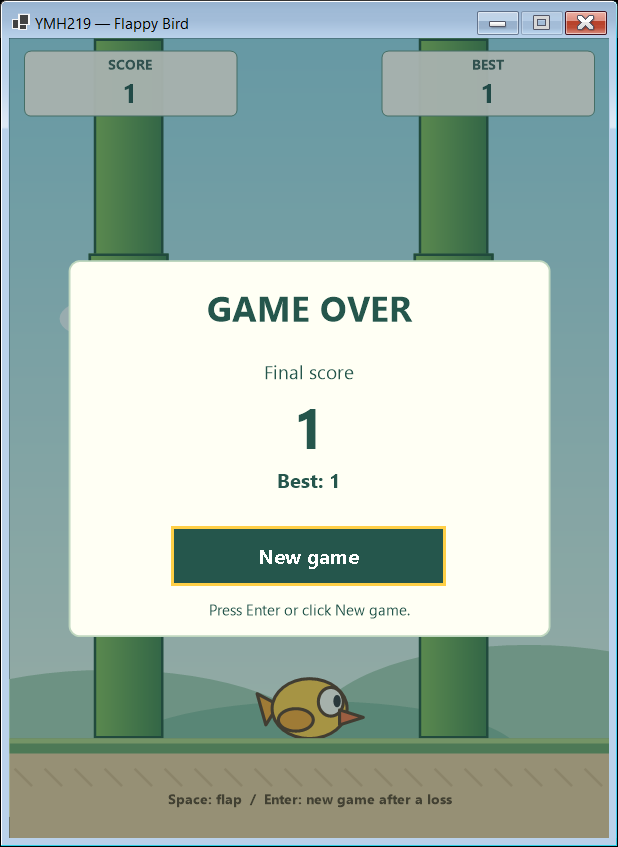
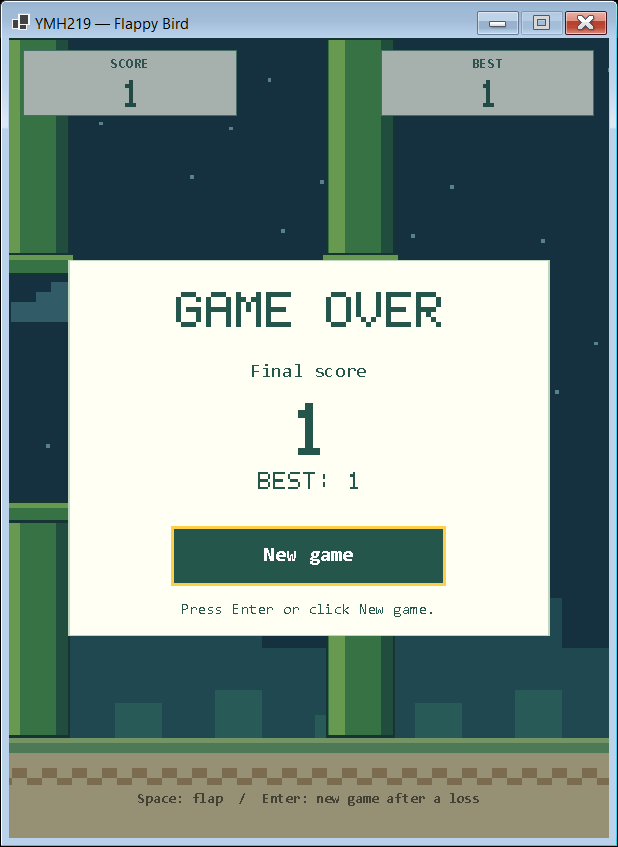
docs: document retro presentation and refresh actual game captures

diff --git a/README.md b/README.md
@@ -2,7 +2,7 @@
 
 A C# Windows Forms desktop game project for **Nesne Tabanlı Programlama (YMH219)**. The project demonstrates object-oriented design, event-driven programming, testing, and a reviewed Git workflow.
 
-**Gameplay implementation is complete. Final submission review is in progress.** Fly through moving pipes, earn points, lose on pipe/ground contact, and start a new run with Enter or the New game button. Separate Score/Best displays, focus pause, and saved best scores are included. PRs #1–#8 are merged. Automated checks, clean-checkout verification, and application screenshots are complete; the owner's full name and manual sign-off remain outstanding in the [submission checklist](docs/SUBMISSION.md).
+**Gameplay implementation is complete. Final submission review is in progress.** Fly through moving pipes with an animated pixel-art bird, earn points, lose on contact, and start again with Enter or New game. The retro night scene includes wing flaps, gentle visual tilt, scrolling terrain, Score/Best displays, focus pause and saved best scores. PRs #1–#8 are merged; owner-requested flight tuning and retro visuals remain review follow-ups. The owner's full name and manual sign-off remain outstanding in the [submission checklist](docs/SUBMISSION.md).
 
 ## Quick start
 
@@ -24,7 +24,7 @@ Open the root folder in VS Code, install the recommended extensions, and use **C
 
 ```text
 src/
-  FlappyBird.App/           Window, rendering, input/timing, high-score services
+  FlappyBird.App/           Window, pixel rendering/animation, input/timing, score storage
   FlappyBird.Core/          Models, swept collision, GameEngine/PipeSystem, gap generation
 tests/
   FlappyBird.Core.Tests/    xUnit behavior tests
@@ -58,6 +58,7 @@ Every stage uses a separate branch and pull request. Review the diff, test resul
 - [Completion plan](docs/PLAN.md): stage-by-stage tasks, acceptance criteria, target dates, and review gates for finishing Flappy Bird.
 - [Setup and troubleshooting](docs/SETUP.md): tools, environment, VS Code, common failures.
 - [Architecture](docs/ARCHITECTURE.md): current responsibilities and intended game design.
+- [Retro artwork and animation](docs/ANIMATION.md): original pixel assets, timing, pause/reset behavior and verification.
 - [Decisions](docs/DECISIONS.md): choices, rationale, and tradeoffs.
 - [Development workflow and log](docs/DEVELOPMENT.md): stages, branching, review, actual changes.
 - [Testing](docs/TESTING.md): commands, assertions, UI checks, and evidence.
@@ -71,7 +72,7 @@ Every stage uses a separate branch and pull request. Review the diff, test resul
 
 Use `./scripts/dev.ps1 check` to restore, build Release, run tests, and verify formatting. The Windows GitHub Actions workflow runs the same command on pull requests and pushes to `main`, then uploads TRX results. Workflow configuration does not imply that a hosted CI run has passed; execution evidence is recorded in [TESTING.md](docs/TESTING.md).
 
-Mandatory gameplay and optional high-score persistence are implemented and regression-tested: **162 tests (97 Core, 65 App)**. A fresh GitHub clone restored, built, passed the full check, and launched/closed normally on the development computer. After the owner reported fast falling and oversized Space hops, flight now uses a smaller hop, lighter gravity and capped descent. Acceptance of the revised feel, other physical display/input checks, and another-computer sign-off remain pending. Audio, progressive speed, and selectable difficulties are deferred. Scripted checks do not establish human difficulty or fairness. The bird uses a conservative rectangular hitbox rather than pixel-perfect artwork collision. No distribution package or third-party assets are included. A license has not yet been selected.
+Mandatory gameplay, persistence and retro presentation are regression-tested: **180 tests (97 Core, 83 App)**. A fresh GitHub clone previously restored, built, checked and launched/closed normally on the development computer; current execution evidence is in TESTING. After the owner reported fast falling and oversized Space hops, flight uses a smaller hop, lighter gravity and capped descent. Animation advances separately and preserves those physics. Acceptance of the revised feel/art, physical display/input checks and another-computer sign-off remain pending. Audio, progressive speed and selectable difficulties are deferred. Scripted checks do not establish human difficulty or fairness. The nominal rectangular hitbox remains conservative. No distribution package or third-party visual assets are included. A license has not yet been selected.
 
 ## Technologies and NuGet packages
 
@@ -120,11 +121,11 @@ Settings are finite/positive and validated against Playfield. Engine updates acc
 
 The renderer uses the 480 × 640 logical playfield with ground beginning at Y=560. Shapes, strokes, and pixel-unit fonts scale together to the actual client area. Uniform scaling and centered borders preserve proportions when the client aspect ratio differs. WinForms DPI autoscaling uses a 96-DPI baseline; the window remains fixed-size with maximize disabled.
 
-The renderer reads Bird, state, current/best scores, pause/status presentation, and pipe geometry. It paints pipes before the bird, separate corner score cards while Running, an inactive pause card, and a dimmed final-score card on Game Over. Instructions sit in the ground region. A shared SceneViewport mapping keeps the native restart button and its pixel-unit font aligned with painted content at different client sizes. Painting never changes domain state, randomness, or storage. Accessible descriptions cover Ready, Running, paused, Game Over, best, restart, and storage warnings.
+The renderer reads Bird, state, scores, pipe geometry and an immutable animation snapshot. Original block shapes and five-by-seven heading glyphs create an 8-bit arcade look. Ready has gentle bob/wing motion; Running adds velocity-based visual tilt and layered world scrolling. Fresh Space pulses the wing pose. Focus loss freezes presentation, Game Over holds its last frame, and restart resets it. Painting never advances animation, domain state, randomness or storage. Small instructions and the native restart button retain readable monospace text. SceneViewport keeps native controls aligned with the same scaled scene; accessible descriptions retain controls, state, best and storage warnings. See [animation details](docs/ANIMATION.md).
 
 ## Screenshots and student details
 
-Actual application-window captures taken on November 17, 2026 at 125% desktop scaling. An isolated scripted run uses controlled gaps and normal scoring/contact logic. These images are not evidence of human playtesting; [capture details](docs/screenshots/README.md) record their source and limitations.
+Actual application-window captures refreshed on November 18, 2026 at 125% desktop scaling. An isolated scripted run uses controlled gaps and normal scoring/contact logic. These images are not evidence of human playtesting; [capture details](docs/screenshots/README.md) record their source and limitations. A [Ready-screen capture](docs/screenshots/ready.png) also shows the new pixel theme.
 
 ![Running game with a completed pipe pass, score 1, and a visible next gap](docs/screenshots/gameplay.png)
 
@@ -132,7 +133,7 @@ Actual application-window captures taken on November 17, 2026 at 125% desktop sc
 
 ![Game Over with final score 1, saved best 1, and the focused New game button](docs/screenshots/game-over.png)
 
-*Game Over after ground contact: final score 1, saved best 1, and keyboard-accessible restart.*
+*Game Over after collision: final score 1, saved best 1, and keyboard-accessible restart.*
 
 | Student detail | Status |
 | --- | --- |

diff --git a/docs/ARCHITECTURE.md b/docs/ARCHITECTURE.md
@@ -6,12 +6,12 @@ The solution contains four projects:
 
 | Project | Target | Responsibility | Dependencies |
 | --- | --- | --- | --- |
-| `FlappyBird.App` | `net10.0-windows` | Window, input/focus adapter, timing, rendering, high-score storage | Core, Windows Forms |
+| `FlappyBird.App` | `net10.0-windows` | Window, input/focus adapter, timing, pixel rendering/animation, score storage | Core, Windows Forms |
 | `FlappyBird.Core` | `net10.0` | Geometry, motion, gaps, swept contact, scoring, three-state game/reset | .NET base libraries |
 | `FlappyBird.Core.Tests` | `net10.0` | Core behavior tests | Core, xUnit, test SDK, coverage collector |
 | `FlappyBird.App.Tests` | `net10.0-windows` | Rendering, input/timing, native restart, and isolated storage tests | App, xUnit, test SDK, Windows drawing APIs |
 
-Program initializes WinForms on an STA thread. GameForm owns window/input/focus, FixedStepLoop, Stopwatch, one timer and one restart Button. GameEngine owns Bird, PipeSystem, Score, and Ready/Running/GameOver. Renderer receives read-only presentation inputs; it owns no game rules. The existing fixed-window/DPI/double-buffering behavior remains.
+Program initializes WinForms on an STA thread. GameForm owns window/input/focus, FixedStepLoop, Stopwatch, SceneAnimation, one timer and one restart Button. GameEngine owns Bird, PipeSystem, Score, and Ready/Running/GameOver. Renderer receives read-only model inputs and an immutable animation snapshot; it owns no game rules or animation clock. The existing fixed-window/DPI/double-buffering behavior remains.
 
 Playfield remains 480 × 640 with an 80-unit ground region. GroundTop=560 is shared by geometry, collision, and rendering. Mandatory contact, score, loss, and restart behavior and optional best-score persistence are implemented. Audio, progressive speed, and selectable difficulty are deferred.
 
@@ -67,17 +67,19 @@ Deactivation stops the timer and clears timing/input accumulation. Activation sa
 
 ## Renderer and coordinate mapping
 
-Coordinates use top-left origin, X rightward, Y downward. Ground is anchored at `GroundTop` (560). Artwork is centered in the model's bird rectangle and scaled from nominal 86 × 48 bounds. The shadow is decorative. Birds below the viewport are culled before converting coordinates to floats.
+Coordinates use top-left origin, X rightward, Y downward. Ground is anchored at `GroundTop` (560). Original block artwork is centered/inset in the nominal 86 × 48 bird rectangle. Wing pose and small tilt are visual only; Ready bob does not move Core's bird. Birds below the viewport are culled before converting coordinates to floats.
 
-Renderer receives current Score, cached BestScore, paused flag, and a cached storage-status string. SceneViewport computes `scale = min(clientWidth/logicalWidth, clientHeight/logicalHeight)` and centered offsets for both graphics and native button bounds. It maps the logical restart rectangle (centered, Y=390, 220 × 48) inside the Game Over panel. GameForm updates the mapping on layout and after client-size changes, since a fixed Form can finalize its client size after layout. Graphics transforms/clipping remain unchanged; empty clients are ignored.
+Renderer receives current Score, cached BestScore, paused flag, cached storage status and SceneAnimationFrame. Omitting the frame supplies a deterministic still pose for callers/tests. SceneViewport computes `scale = min(clientWidth/logicalWidth, clientHeight/logicalHeight)` and centered offsets for graphics and native button bounds. It maps the logical restart rectangle (centered, Y=390, 220 × 48) inside the Game Over panel. GameForm remaps on layout/client-size change. Empty clients are ignored.
 
-Renderer paints scenery/pipes/bird, distinct Score/Best corner cards, Ready panel if applicable, ground with controls/status, and a dimmed Game Over/final-score card when finished. The corner cards leave the bird's central ceiling path clear. An inactive Running window gets a Paused card; there is no additional Core state or change in resume semantics. The native Button owns input and paints above the card, with hover/press colors and a gold focus border. Lips remain within model bounds. Pixel-unit fonts scale with geometry; no paint advances rules, randomness, or storage. A 125% desktop yields a 600 × 800 client area.
+Renderer paints flat night-sky blocks/stars, highlighted pipes, a pixel bird, Score/Best cards, Ready/pause/loss panels and scrolling ground with controls/status. A code-authored five-by-seven PixelFont draws large headings and numbers; smaller instructions use the Windows monospace font. Non-antialiased rectangles keep the retro edges sharp. The native Button owns input above the loss card and keeps hover/press/focus feedback. Pipe lips remain within model bounds; a 125% desktop yields a 600 × 800 client area.
 
-Each render saves and restores the caller's graphics state, including transforms and clipping. Fonts, brushes, pens, paths, and string formats are locally owned with `using` disposal. The renderer retains only the immutable Playfield; it owns no persistent native drawing resources and therefore needs no disposal lifecycle. Painting reads dimensions and does not create or advance gameplay state.
+Each render saves/restores caller graphics state, including transforms, clipping and drawing modes. Fonts, brushes, pens and string formats are locally owned with using disposal. Renderer retains only immutable Playfield, with no persistent native drawing resources or per-frame image loading. Painting never advances presentation, physics, randomness or storage.
 
 The Windows-only App test project renders into off-screen bitmaps; it does not introduce Windows dependencies into Core or make the Core tests require a UI.
 
 GameForm owns a reusable bold restart Font sized to `16 * viewport.Scale` pixels, replacing/disposing it when size changes and disposing it with the Form after its controls. This avoids an independent point/DPI conversion for the native control. Other renderer resources retain scoped ownership.
+
+SceneAnimation advances only in the bounded fixed-step callback. Ready advances wings/bob without engine updates; Running advances both engine and presentation; GameOver does neither. Fresh accepted Space resets the wing pulse, activation preserves phase without catch-up, and restart clears visual phases. Ground scrolling reads the same immutable GameSettings.PipeSpeed as the engine. Animation snapshots are plain values, so repeated paint/focus/minimize operations cannot advance time. See [ANIMATION.md](ANIMATION.md) for rates, assets and tests. Core remains unchanged by this visual follow-up.
 
 ## Best-score ownership and I/O
 

diff --git a/docs/TESTING.md b/docs/TESTING.md
@@ -22,7 +22,7 @@ CI uses Windows and the same `check` command. It uploads available TRX files eve
 - Ground height equal to or greater than total height.
 - The parameter name reported by rejected input.
 
-The current suite has **162 cases: Core 97, App 65**. Existing model, pipe, gap/randomness, timing, input, scaling, and repaint coverage remains. Stage 04 adds inclusive/swept contact, loss, score threshold/ordering/eligibility, frozen GameOver, existing ground contact, largest supported updates, 40 loss/reset cycles, score/overlay rendering, shared restart layout, and invisible STA Form tests. Twelve UI restart cycles reuse the timer/pairs and alternate button and focused-button Enter; held-Space and time-debt tests cover App reset wiring. Owner-feedback regressions verify a smaller hop with retained airtime, gentler descent, configurable downward caps with upward flap unaffected, and a necessary default downward gap-transition speed budget.
+The current suite has **180 cases: Core 97, App 83**. Model, pipe, randomness, timing, input, collision, scoring, restart and persistence coverage remains. App adds presentation-phase/reset/freeze/validation tests, custom scrolling speed, explicit wing/tilt/parallax snapshots at three scales, exact repeat/wrap output and native idle/pause/loss/restart wiring. Native-window tests retain their nonparallel collection. Flight tuning regressions preserve the smaller hop/capped descent; this visual follow-up changes no Core code.
 
 Stage 05 adds isolated file/service tests for first launch, valid maximum, fresh-instance reload, invalid/oversized/UTF-8 data, retained maximum, locked reads/replacement, unchanged valid files, retry and status. Form tests prove best survives restart/fresh windows, one save per completed best, no writes from repaint/focus/ticks/reset, failure-tolerant gameplay, pause descriptions, native font/bounds at three logical scales, and keyboard focus color. Renderer checks include best, pause, and warnings without model mutation. See [HIGH_SCORE.md](HIGH_SCORE.md) for isolation. Audio/progression remain deferred.
 
@@ -246,3 +246,19 @@ Added two cap cases (90 and 240 units/s) that exercise long falls, terminal moti
 The initial revised test run passed 161 cases before the speed-budget regression was added. Native rules/executable and isolated persistence probes passed that candidate; final full-check and probe results are recorded separately below. No committed screenshots or personal score data are changed. Physical feel confirmation remains pending.
 
 Final candidate validation: `./scripts/dev.ps1 check` passed restore, zero-warning/error Release build, **162 cases (97 Core + 65 App)** and formatting. Re-ran the native rules/executable and isolated high-score probes with the final 240-unit/s cap: all passed, including isolated exact ground contact and normal executable close (exit 0). All 13 Markdown files' local targets resolved; whitespace/output-exclusion checks passed. Hosted exact-head results are recorded on PR #9.
+
+## Retro artwork and animation — 2026-11-18
+
+Owner requested an Atari-like appearance and improved animation. `feat/retro-arcade` starts from the f231b51 flight candidate. GameForm/renderer/animation changes stay in App; Core physics, inputs, collision/score/reset policy and score storage are preserved. External generation produced no asset; delivered artwork and heading glyphs are original code.
+
+| Check | Executed evidence |
+| --- | --- |
+| Full `./scripts/dev.ps1 check` | Passed: restore, Release build with zero warnings/errors, **97 Core + 83 App = 180 cases**, zero failures/skips and clean formatting |
+| Presentation tests | Ready bob/wings with stationary Core, running offsets/wrap/tilt, custom pipe speed, immediate fresh-flap pose, held-repeat suppression, GameOver freeze, reset and invalid-input no-mutation |
+| Renderer checks | Wing/tilt/scroll snapshots differ as expected at 100%/125%/150% equivalents, repeated frames and a full parallax wrap are byte-identical, Core values remain unchanged, caller graphics state restored |
+| Native Form check | Ready animates without physics, inactive frame freezes, Running scrolls, loss freezes, and restart resets the snapshot; existing nonparallel initialization isolation retained |
+| Existing native/persistence probes | Re-ran rules and polish helpers: controlled scoring/contact, reset/held keys/focus/minimize/restore/bounded stall/disposal, save/reload/failure/retry and normal close passed. Actual hidden Release EXE launch/close exited 0 |
+| Visual inspection | Inspected Ready 125%, Running 100% and GameOver 150% renderer equivalents. Moved the moon away from instruction text and verified seamless backdrop wrap. These previews are diagnostics, not gameplay evidence |
+| Actual screenshots | Captured/inspected real target-window Ready, scored Running and GameOver at 120 DPI from 0a17073. Isolated scripted gaps/flaps earned score 1 through ordinary logic; natural collision saved best 1 and button restart passed. Updated PNGs/provenance; no desktop or owner score data included |
+
+Ground alignment checks now sample a flat soil area clear of the control text/scrolling texture, retaining their geometry/color assertions. Omitted animation parameters still render a fixed deterministic snapshot. No system clock, network or file I/O occurs in paint. Human smoothness, actual DPI transitions, revised visual acceptance and unrelated manual sign-off remain pending. See [ANIMATION.md](ANIMATION.md).

diff --git a/docs/ANIMATION.md b/docs/ANIMATION.md
@@ -1,0 +1,37 @@
+# Retro artwork and animation
+
+The owner requested an Atari-like arcade appearance and improved animation. The implementation uses original pixel-art shapes and a small fixed palette rather than copied game assets. The existing smaller-hop/capped-fall physics remain unchanged by this presentation work.
+
+## Ownership and assets
+
+| Component | Responsibility |
+| --- | --- |
+| [SceneAnimation](../src/FlappyBird.App/Animation/SceneAnimation.cs) | Advance App-only presentation time and expose an immutable SceneAnimationFrame |
+| [GameForm](../src/FlappyBird.App/Forms/GameForm.cs) | Drive presentation from the existing bounded loop; apply fresh-key, focus, loss and reset events |
+| [GameRenderer](../src/FlappyBird.App/Rendering/GameRenderer.cs) | Read the snapshot and model, draw original block artwork, and restore caller graphics state |
+| [PixelFont](../src/FlappyBird.App/Rendering/PixelFont.cs) | Draw original five-by-seven glyphs for large headings/numbers; no font file |
+
+Bird poses, pipe highlights, stars, moon, stepped landscape, ground tiles, panels and heading glyphs are authored directly in C#. Small instructions/native controls use the installed Windows monospace font; no font files are redistributed. No images, video, GIF, downloaded sprite sheet, paid service or network connection is required at runtime.
+
+The connected Higgsfield generation attempt did not produce an asset. No Higgsfield-generated media is included or claimed as provenance. The delivered artwork is code-authored; the screenshots capture that actual application.
+
+## Timing and state behavior
+
+- Wings follow **up → middle → down → middle**, 100 ms per pose, from a bounded 0.4-second phase.
+- Ready uses a 3-unit bob over 1.8 seconds and wings while Core remains stationary.
+- A fresh accepted Space press restarts the up-wing pose and clears idle bob. Held-key repeat cannot retrigger it.
+- Running tilt reads vertical velocity and is limited to −8° through +12°. The artwork is inset inside the unchanged nominal bird rectangle; tilt is a visual effect, not a hitbox or velocity change.
+- Ground scroll uses the shared GameSettings.PipeSpeed (140 by default), wrapping every 24 units. Backdrop phase runs at 10 units/s with a 480-unit loop and a slower landscape layer. Cloud copies and repeated terrain periods keep the wrap seamless.
+- The same fixed 1/60-second callback updates gameplay and presentation. The existing 100 ms/six-update catch-up limit still bounds work. Ready runs visual updates only.
+- Deactivation stops the timer and clears timing debt, preserving the exact presentation frame. Activation resumes without advancing through inactive wall time.
+- Game Over freezes presentation. New game resets it to the same initial snapshot while retaining best score.
+
+OnPaint never reads a clock or advances animation. Repainting a supplied snapshot gives identical output, including after different frames have been rendered. The renderer uses local disposable graphics resources and saves/restores transform, clipping and drawing settings. No frame bitmaps or external media are allocated/loaded during painting.
+
+## Scaling, evidence and limits
+
+The existing 480×640 logical coordinate system and centered uniform SceneViewport are retained. Block edges use non-antialiased GDI+ drawing; integer glyph cells fit available heading bounds. This is a retro style, not an emulation of a particular console's hardware. Native button bounds/font retain the same DPI mapping and accessibility behavior.
+
+Tests cover idle/flight phases, wrap, custom scroll speed, fresh flap, invalid input, GameOver/reset and native focus freezing. Renderer tests compare explicit wing/tilt/scroll snapshots at 100%/125%/150% equivalents, require exact repeated output and verify unchanged Core state. Existing native-window isolation remains in place.
+
+[Actual window screenshots](screenshots/README.md) show Ready, a valid scored run and Game Over using isolated score storage. Direct renderer previews are diagnostic images only. Physical monitor transitions, perceived smoothness, owner visual acceptance and other manual submission checks remain separate in [SUBMISSION.md](SUBMISSION.md).

diff --git a/docs/screenshots/README.md b/docs/screenshots/README.md
@@ -4,24 +4,26 @@ These PNG files capture the actual GameForm window through the Windows `PrintWin
 
 | Item | Evidence |
 | --- | --- |
-| Capture date | 2026-11-17 |
-| Application source | 50431896fee7b618a70094083ae62146f7880ebb, merged through PR #6 into main at 97416ab |
+| Capture date | 2026-11-18 |
+| Application source | 0a1707333fca919194faff2caaa29ec7dace33a1 on feat/retro-arcade, retaining the f231b51 flight candidate |
 | Display | 120 DPI (125%); 600×800 client area, 618×847 full window |
+| Ready | [ready.png](ready.png): original pixel theme, stationary Core model, animated presentation |
 | Gameplay | [gameplay.png](gameplay.png): Running, score 1, best 0 |
-| Loss | [game-over.png](game-over.png): natural ground contact, final score 1, best 1, focused New game button |
+| Loss | [game-over.png](game-over.png): ordinary engine collision, final score 1, best 1, focused New game button |
 | Storage | Explicit unique path in ignored `.local/final-evidence`; owner's real score is untouched |
 
-The temporary capture helper creates the real Form and uses its Space key message handling. It sets the two initial gap tops to 190 for a reproducible safe path, then steps the real engine at 1/60 second while issuing scripted flaps. A complete pass earns the point through ordinary engine scoring. It captures Running, stops issuing flaps, lets the bird fall naturally to ground contact, then captures Game Over and checks restart.
+The temporary helper creates the real Form and uses its Space key handling. It sets the two initial gap tops to 190 for a reproducible safe path, then steps the real engine and App animation at 1/60 second while issuing scripted flaps. A complete pass earns the point through ordinary scoring. It captures Running, stops issuing flaps, lets normal collision logic end the run, then captures Game Over and checks restart.
 
-The helper pauses the production timer during directly stepped simulation to avoid double updates. The images therefore establish actual UI rendering and a controlled rules path, not a human random-gap playthrough or real-time smoothness. Best is updated only at Game Over. No position, point, or loss result is fabricated in the saved images.
+The helper pauses/resets the production timer/clock during direct stepping and capture to avoid double updates. It freezes the supplied visual snapshot for PrintWindow. These images establish actual UI rendering and a controlled rules path, not a human random-gap playthrough or real-time smoothness. Best updates only at Game Over. No score or loss result is fabricated in the saved images.
 
-The initial desktop-area capture did not capture the target window and was discarded. The committed files use target-window capture only. No desktop/background content is included. The helper remains ignored; it is diagnostic tooling, not an application runtime dependency. Owner screenshot acceptance remains part of [submission sign-off](../SUBMISSION.md).
+The committed files use target-window capture only; no desktop/background content is included. The helper remains ignored diagnostic tooling. No Higgsfield-generated artwork or mockup is used as screenshot evidence. Owner acceptance remains part of [submission sign-off](../SUBMISSION.md).
 
 SHA-256 checksums:
 
 ```text
-F7DDCB6D3A391E879CB35A8ED8039E57D9C3529FD1E40348FF025BF96E98850D  gameplay.png
-9894027084BE4BB70096DEDFBEB3821A13298FE09C8C23603F8663A8425996FF  game-over.png
+A3044B3A9799022B1FF3F59461DD959A15E2C57296BE5C278789F41C86621CE5  ready.png
+2884DEC5B54D642387C0711A19A7181AA997B15011FD1DCEBDE4E849D11DC467  gameplay.png
+A7123AA0F51443968DCFA233C333718FF484FBA03F7E0BE33858CDB50B9C0318  game-over.png
 ```
 
 To refresh them manually, run the application, earn a point, capture only its window while Running, then capture Game Over with final score/restart visible. Replace both PNGs, update this record/checksums, and inspect for clipping or unrelated content. Do not edit a screenshot to invent game state.

diff --git a/docs/DEVELOPMENT.md b/docs/DEVELOPMENT.md
@@ -186,3 +186,12 @@ This is initialization only. Gameplay remains planned. Detailed local validation
 - Actual-model samples show about 37% less hop height, similar airtime, and 40% less descent after half a second versus the first candidate. Added terminal-speed/upward-flap and necessary gap-transition budget coverage; updated reference/ground/native loss fixtures without relaxing contact assertions.
 - Updated current README, architecture, walkthrough and ADR-020. No pipe/input/timing/scoring/reset/storage behavior, screenshot pixels or student-number privacy choice changed. New feel confirmation remains an owner check.
 - Final full check passed with 162 cases (97 Core, 65 App), zero warnings/errors and clean formatting. Final-cap native rule/executable and persistence probes passed; local links, whitespace and ignored-output checks passed. The rebuilt game is prepared for the owner's next test; hosted exact-head checks remain separate.
+
+## 2026-11-18 — Owner-requested retro artwork and animation
+
+- Owner requested an Atari-like look and improved animation, suggesting Higgsfield. Checked the connection and attempted one sprite generation; no asset was produced. Implemented original code-authored block artwork and glyphs without external/generated media or a runtime service dependency.
+- Created `feat/retro-arcade` from the f231b51 flight candidate, preserving the smaller hop, 360 gravity and 240 fall cap. Core source is unchanged by this follow-up.
+- Added App-owned SceneAnimation/immutable frame values, three wing poses with fresh-press pulse, Ready bob, velocity-based visual tilt, wrapped layered scrolling and original five-by-seven headings. Kept native accessible restart, viewport/DPI mapping, double buffering and graphics disposal.
+- Drove presentation from the existing bounded loop; Ready stays stationary in Core, inactive/lost frames freeze, held repeat cannot reset the pulse and restart clears phases. Rendering only reads the supplied snapshot.
+- Full check passed: zero warnings/errors, 180 cases (97 Core, 83 App), formatting clean. Native/persistence probes and actual Release launch/close passed. Exact repaint/wrap and state-preservation assertions remain; no manual acceptance is inferred.
+- Inspected equivalent-scale previews and actual target-window captures. Updated README screenshots/provenance from runtime source 0a17073, plus animation ownership/asset documentation and ADR-021. Owner review of the new look/smoothness and final submission fields remains pending; student-number omission is preserved.

diff --git a/docs/DECISIONS.md b/docs/DECISIONS.md
@@ -174,3 +174,13 @@ At 1/60-second samples, hop rise falls from 54.17 to 34.23 units (about 37% smal
 Keep pipe dimensions/speed and inclusive swept collision ordering. The cap retains more travel capacity than the minimum positional change across the widest downward gap transition in the default geometry; a regression guards this necessary speed budget without claiming all random runs are human-playable. Ground-only fixtures keep pipes out of the way and wait long enough for slower descent, retaining their exact-contact assertions. Native loss helpers allow an extra bounded engine update so high random gaps cannot make them timing-dependent.
 
 No additional input, timer, state, score, restart or persistence behavior changes. Existing arithmetic fixtures explicitly choose a practically unbounded cap when testing the original integration configuration. Revised feel still needs owner confirmation; other manual sign-offs remain separate.
+
+## ADR-021 — Original pixel arcade art with App-owned animation
+
+**Date:** 2026-11-18. **Status:** Implemented for owner visual review.
+
+The owner requested improved animation and an Atari-like look, suggesting the connected Higgsfield tools. Asset generation did not return a usable asset in the session. Deliver original code-authored pixel bird poses, scenery and five-by-seven heading glyphs, with no external/generated media, package or runtime network dependency. Do not claim that the implemented art was generated by Higgsfield.
+
+Keep animation in App. GameForm advances SceneAnimation on the same bounded fixed-step callback, while GameRenderer only reads an immutable SceneAnimationFrame. Ready wings/bob do not update Core; Running adds pulse/tilt and layered scrolling. Inactive/GameOver frames freeze; restart resets phases. Read ground speed from the shared settings, and wrap decorative offsets over repeatable periods. No paint reads a clock or advances model/animation state.
+
+Use non-antialiased block geometry and original pixel headings, retaining monospace small text, native keyboard restart/accessibility, uniform viewport mapping and graphics disposal. Preserve the current 360/160/240 flight settings, Core hitboxes/rules and personal score storage. New screenshots must be actual target-window captures with explicit scripted-run provenance, not art-generation mockups. Frame tests retain exact repaint equality and native-window isolation. See [ANIMATION.md](ANIMATION.md).

diff --git a/docs/REQUIREMENTS.md b/docs/REQUIREMENTS.md
@@ -23,10 +23,11 @@ The PDF requires at least two obstacles rather than specifying pipe pairs. Our p
 | Enhancement | Acceptance condition if selected | Status |
 | --- | --- | --- |
 | Persistent high score | Survives restart/application relaunch; storage failures handled | Merged in PR #6; FileHighScoreStoreTests, HighScoreServiceTests, GameFormRulesTests; [storage contract](HIGH_SCORE.md) |
+| Retro artwork and animation | Readable original pixel theme, wing/tilt/scroll motion, pause/loss freeze and pure painting | Owner-requested follow-up; SceneAnimationTests, renderer/native tests; [animation contract](ANIMATION.md); visual acceptance pending |
 | Progressive speed | Predictable bounded difficulty progression with tests | Deferred; no progression added |
 | Audio or difficulty levels | Clear controls and stable gameplay behavior | Deferred; no audio or selector added |
 
-High score is the only selected optional enhancement. Stage 05 improves controls, score/best contrast, pause explanation and native restart focus/scaling without changing mandatory gameplay/settings. Human difficulty and physical input/display review remain pending. Stage 06 provides screenshots, clean-checkout and public-access evidence; identity/owner/second-computer sign-off is still pending.
+High score and the owner-requested retro presentation are selected enhancements. Flight tuning follows the owner's playtest feedback; this visual follow-up preserves those physics and mandatory rules. Human feel, visual and physical input/display acceptance remain pending. Stage 06 provides screenshots, clean-checkout and public-access evidence; full-name/owner/second-computer sign-off is still pending.
 
 ## Quality and process
 

diff --git a/docs/SUBMISSION.md b/docs/SUBMISSION.md
@@ -2,6 +2,8 @@
 
 Updated **2026-11-18**. Gameplay, optional persistence and technical submission evidence are on main through PR #7. The owner's full name and manual evidence remain missing. The owner chose to omit the student number from public README; the original instructor requirement remains recorded in REQUIREMENTS. Unchecked items still require owner action; this document does not claim submission is complete. The deadline is **November 30, 2026, 23:59 Asia/Riyadh**.
 
+Owner-requested flight tuning and retro animation remain review follow-ups. The current branch refreshes actual application screenshots for the new visuals; their acceptance and real-time smoothness remain owner checks. Presentation work does not change the flight candidate or complete unrelated manual sign-off.
+
 Reviewed technical base: [PR #7](https://github.com/alaamadii/FlappyBird/pull/7) merged on 2026-11-17 at main commit `de91ef86f5e77b2ddb871468727331147b7bbe24`. Its [exact-head CI](https://github.com/alaamadii/FlappyBird/actions/runs/44060035990) and [post-merge main CI](https://github.com/alaamadii/FlappyBird/actions/runs/44080796874) passed. [Readiness PR #8](https://github.com/alaamadii/FlappyBird/pull/8) subsequently merged at 5ab0563. The owner requested gentler flight after trying the game; the `fix/floatier-flight` tuning still needs owner confirmation. These records do not replace final submission sign-off or the remaining manual checks.
 
 ## Initialization review

diff --git a/docs/PLAN.md b/docs/PLAN.md
@@ -8,7 +8,7 @@
 
 **Submission deadline:** 2026-11-30, 23:59 (working schedule: Asia/Riyadh)
 
-**Current position (verified 2026-11-18):** Stage 06 technical evidence merged in PR #7; readiness/privacy documentation merged in PR #8 at main commit 5ab0563. Following the owner's fast-fall report, `fix/floatier-flight` adjusts gravity/flap defaults for a gentler arc without changing game rules. Owner review of that tuning, the full name, physical/second-computer checks, screenshot acceptance and final submission sign-off remain pending. The student number stays omitted per owner choice.
+**Current position (verified 2026-11-18):** Stage 06 evidence merged in PR #7; readiness/privacy documentation merged in PR #8. PR #9 contains owner-requested smaller-hop/capped-fall tuning. The owner additionally requested retro artwork/animation: `feat/retro-arcade` builds on that flight candidate without modifying Core. Flight/visual acceptance, full name, physical/second-computer checks, refreshed screenshot approval and final submission sign-off remain pending. Student number stays omitted per owner choice.
 
 This is the working plan for finishing **Flappy Bird only**. The other four NTP assignments have separate repositories and are outside this plan. Update this file as stages are accepted, recording actual completion dates rather than replacing targets with assumed results.
 
